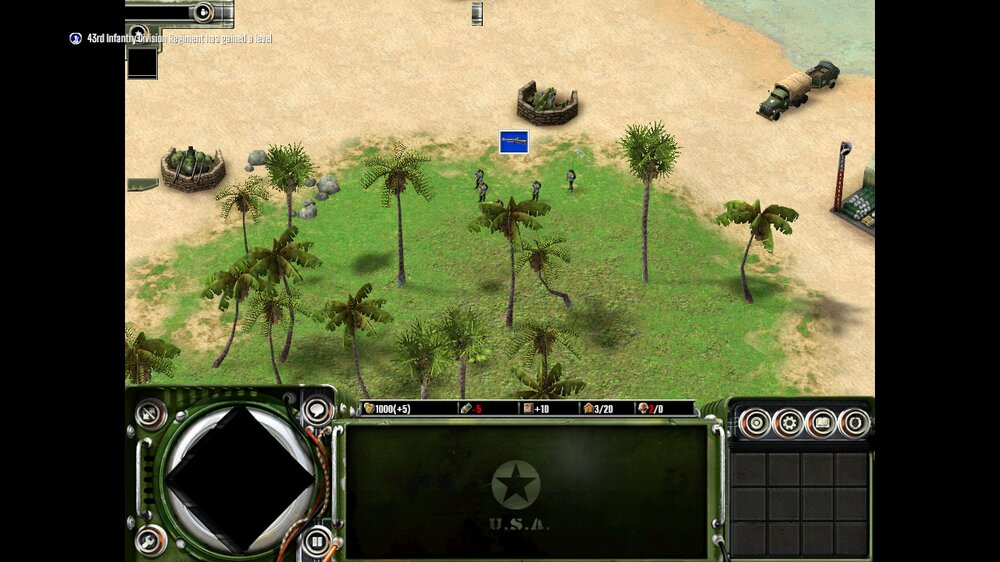
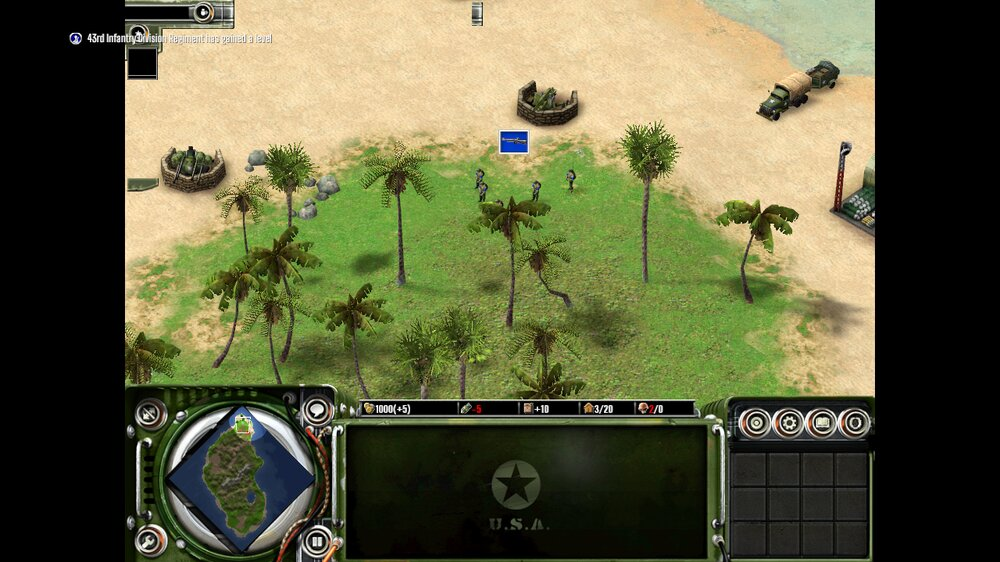
Show the minimap in the original interface

Changed region(s): [[0.155, 0.726, 0.31, 0.9982]]

diff --git a/crates/tgclient/src/widgets.rs b/crates/tgclient/src/widgets.rs
@@ -161,7 +161,8 @@ const UNDER_BUTTONS: [&str; 2] = [OBJECT_DISPLAY, "ActionButtons"];
 /// The panel showing what's selected: with nothing selected, only its own
 /// pictures, as its parts show the selection.
 const OBJECT_DISPLAY: &str = "ObjectDisplay";
-const OVER_BUTTONS: [&str; 1] = ["GameMiniMap"];
+/// The panel the minimap's drawn in, over the rest of the control panel.
+const MINIMAP: &str = "GameMiniMap";
 
 /// The match layer's own part that's on screen from the start, and the
 /// panels placed against the whole screen that are, with the flag each
@@ -244,6 +245,7 @@ pub fn spawn(
     mut images: ResMut<Assets<Image>>,
     mut faces: ResMut<Assets<bevy::text::Font>>,
     formats: Res<CompressedImageFormatSupport>,
+    minimap: Res<crate::minimap::Minimap>,
 ) {
     let game = &loaded.game;
     let nation = (local.0)
@@ -271,6 +273,8 @@ pub fn spawn(
         pressables: Vec::new(),
     };
     let mut grid = None;
+    // Where the minimap's drawn, and its panel's pictures over it.
+    let mut minimap_at = None;
     if let Some(top) = named(GAME).and_then(|g| g.find(ON_GAME)) {
         drawer.widget(top, &[]);
     }
@@ -295,9 +299,14 @@ pub fn spawn(
         for child in &panel.children {
             drawer.widget(child, &chain);
         }
-        for name in OVER_BUTTONS {
-            named(name).inspect(|w| drawer.widget(w, &chain));
-        }
+        minimap_at = named(MINIMAP).and_then(|widget| {
+            let within = drawer.own(widget, &chain)?;
+            let under = drawer.drawn.len();
+            for child in &widget.children {
+                drawer.widget(child, &within);
+            }
+            Some((within, drawer.drawn.split_off(under)))
+        });
     }
     for (name, flag) in ON_SCREEN {
         if flag.is_some_and(|f| !f(&drawer.flags)) {
@@ -355,13 +364,7 @@ pub fn spawn(
         ))
         .with_children(|screen| {
             for (chain, image) in drawn {
-                screen.spawn((
-                    placed(&chain),
-                    ImageNode::new(image).with_mode(NodeImageMode::Stretch),
-                    // Clicks on the panels aren't the map's.
-                    Blocks,
-                    RelativeCursorPosition::default(),
-                ));
+                screen.spawn(picture(&chain, image));
             }
             for bar in resource_bars {
                 bar.spawn(screen, game, &letters, short);
@@ -372,6 +375,12 @@ pub fn spawn(
             for button in pressables {
                 button.spawn(screen, &bindings);
             }
+            if let Some((within, over)) = minimap_at {
+                screen.spawn((placed(&within), minimap.view()));
+                for (chain, image) in over {
+                    screen.spawn(picture(&chain, image));
+                }
+            }
             docked = pane.map(|pane| pane.spawn(screen));
         })
         .id();
@@ -381,6 +390,17 @@ pub fn spawn(
     }
     commands.insert_resource(letters);
     commands.init_resource::<LayoutScale>();
+}
+
+/// One of the panels' pictures, given the steps from the screen to it.
+fn picture(chain: &[Step], image: Handle<Image>) -> impl Bundle {
+    (
+        placed(chain),
+        ImageNode::new(image).with_mode(NodeImageMode::Stretch),
+        // Clicks on the panels aren't the map's.
+        Blocks,
+        RelativeCursorPosition::default(),
+    )
 }
 
 /// Where on the layouts' screen the steps from it lead.

diff --git a/crates/tgclient/src/actions.rs b/crates/tgclient/src/actions.rs
@@ -18,7 +18,7 @@ use bevy::ecs::system::SystemParam;
 use bevy::image::CompressedImageFormatSupport;
 use bevy::picking::hover::Hovered;
 use bevy::prelude::*;
-use bevy::ui::RelativeCursorPosition;
+use bevy::ui::{ComputedStackIndex, RelativeCursorPosition};
 use bevy::ui_widgets::{Activate, Button};
 use tgdata::{GameData, Id};
 use tgmap::Organization;
@@ -730,6 +730,39 @@ impl Quantity {
 #[derive(Component)]
 pub struct Blocks;
 
+/// Part of the interface whose clicks are the map's, even drawn over a
+/// panel that [`Blocks`] them, such as the minimap.
+#[derive(Component)]
+pub struct OfMap;
+
+/// What's under the cursor of what takes clicks from the map and what
+/// gives them back.
+#[derive(SystemParam)]
+pub struct Panels<'w, 's> {
+    blocking: Query<'w, 's, Pointed, With<Blocks>>,
+    giving: Query<'w, 's, Pointed, With<OfMap>>,
+}
+
+type Pointed = (
+    &'static RelativeCursorPosition,
+    &'static InheritedVisibility,
+    &'static ComputedStackIndex,
+);
+
+impl Panels<'_, '_> {
+    /// Whether the cursor is on a panel, with nothing of the map's drawn
+    /// over it there.
+    pub fn under_cursor(&self) -> bool {
+        fn top<F: bevy::ecs::query::QueryFilter>(q: &Query<Pointed, F>) -> Option<u32> {
+            (q.iter())
+                .filter(|(p, shown, _)| shown.get() && p.cursor_over)
+                .map(|(.., stack)| stack.0)
+                .max()
+        }
+        top(&self.blocking) > top(&self.giving)
+    }
+}
+
 impl Looks {
     /// Every icon a button can show.
     pub fn icons(&self) -> impl Iterator<Item = &Handle<Image>> {
@@ -1132,16 +1165,8 @@ pub fn spawn(
 }
 
 /// Whether the cursor is off the grid, so clicks go to the map.
-pub fn pointer_away(
-    grids: Query<(&RelativeCursorPosition, &InheritedVisibility), With<Blocks>>,
-) -> bool {
-    !over_grid(&grids)
-}
-
-pub fn over_grid(
-    grids: &Query<(&RelativeCursorPosition, &InheritedVisibility), With<Blocks>>,
-) -> bool {
-    grids.iter().any(|(p, shown)| shown.get() && p.cursor_over)
+pub fn pointer_away(panels: Panels) -> bool {
+    !panels.under_cursor()
 }
 
 pub fn aiming(page: Res<Page>) -> bool {
@@ -2591,7 +2616,41 @@ pub fn aim(
 
 #[cfg(test)]
 mod tests {
+    use bevy::ecs::system::RunSystemOnce;
+
     use super::*;
+
+    /// Spawns a node the cursor is on, `stack` deep in the UI.
+    fn pointed(world: &mut World, stack: u32, marker: impl Bundle) {
+        let cursor = RelativeCursorPosition {
+            cursor_over: true,
+            normalized: Some(Vec2::ZERO),
+        };
+        world.spawn((
+            cursor,
+            InheritedVisibility::VISIBLE,
+            ComputedStackIndex(stack),
+            marker,
+        ));
+    }
+
+    fn on_panel(world: &mut World) -> bool {
+        world
+            .run_system_once(|panels: Panels| panels.under_cursor())
+            .unwrap()
+    }
+
+    #[test]
+    fn the_map_over_a_panel_takes_the_click() {
+        let mut world = World::new();
+        assert!(!on_panel(&mut world));
+        pointed(&mut world, 3, Blocks);
+        assert!(on_panel(&mut world));
+        pointed(&mut world, 5, OfMap);
+        assert!(!on_panel(&mut world));
+        pointed(&mut world, 7, Blocks);
+        assert!(on_panel(&mut world));
+    }
 
     const fn at(slot: usize) -> Option<Place> {
         Some(Place { slot, high: false })

diff --git a/crates/tgclient/src/lib.rs b/crates/tgclient/src/lib.rs
@@ -2342,15 +2342,7 @@ struct Pointer<'w, 's> {
             &'static RtsCamera,
         ),
     >,
-    grid: Query<
-        'w,
-        's,
-        (
-            &'static RelativeCursorPosition,
-            &'static InheritedVisibility,
-        ),
-        With<actions::Blocks>,
-    >,
+    panels: actions::Panels<'w, 's>,
     minimap: Res<'w, minimap::Minimap>,
     views: Query<'w, 's, &'static RelativeCursorPosition, With<minimap::MinimapView>>,
 }
@@ -2372,7 +2364,7 @@ impl Pointing {
 
 impl Pointer<'_, '_> {
     fn at(&self, ground: &Ground) -> Option<Pointing> {
-        if actions::over_grid(&self.grid) {
+        if self.panels.under_cursor() {
             return None;
         }
         match self.minimap.spot(&self.views) {
@@ -2445,7 +2437,7 @@ fn focus(
     banners: Query<banners::Pointed<banners::Banner>>,
     hq_banners: Query<banners::Pointed<banners::HqBanner>>,
     minimap: Query<&RelativeCursorPosition, With<minimap::MinimapView>>,
-    grid: Query<(&RelativeCursorPosition, &InheritedVisibility), With<actions::Blocks>>,
+    panels: actions::Panels,
     loaded: Res<Loaded>,
     sim: Res<Sim>,
     scenery: Res<banners::Scenery>,
@@ -2461,7 +2453,7 @@ fn focus(
         .and_then(Window::cursor_position)
         .zip(cameras.single().ok())
         .is_some_and(|(at, (c, ..))| c.logical_viewport_rect().is_some_and(|r| !r.contains(at)));
-    if !minimap::pointer_away(minimap) || actions::over_grid(&grid) || beside {
+    if !minimap::pointer_away(minimap) || panels.under_cursor() || beside {
         focus.set_if_neq(Focus::Nothing);
         return;
     }
@@ -2513,7 +2505,7 @@ fn select(
     windows: Query<&Window, With<PrimaryWindow>>,
     cameras: Query<(&Camera, &GlobalTransform, &RtsCamera)>,
     minimap: Query<&RelativeCursorPosition, With<minimap::MinimapView>>,
-    grid: Query<(&RelativeCursorPosition, &InheritedVisibility), With<actions::Blocks>>,
+    panels: actions::Panels,
     (loaded, drawn): (Res<Loaded>, Res<Drawn>),
     local: Res<Local>,
     focus: Res<Focus>,
@@ -2533,7 +2525,7 @@ fn select(
     let cursor = at.map(|at| view.map_or(at, |v| at.clamp(v.min, v.max)));
     if buttons.just_pressed(MouseButton::Left)
         && minimap::pointer_away(minimap)
-        && actions::pointer_away(grid)
+        && actions::pointer_away(panels)
         && at.zip(view).is_none_or(|(at, v)| v.contains(at))
     {
         *start = cursor;

diff --git a/crates/tgclient/src/minimap.rs b/crates/tgclient/src/minimap.rs
@@ -200,9 +200,8 @@ pub fn spawn(
         RenderAssetUsages::default(),
     );
     image.data = Some(base.clone());
-    let image = images.add(image);
-    commands.insert_resource(Minimap {
-        image: image.clone(),
+    let minimap = Minimap {
+        image: images.add(image),
         fogged: base.clone(),
         samples: samples(map.ground.size()),
         fog: Vec::new(),
@@ -210,7 +209,7 @@ pub fn spawn(
         size: map.ground.size(),
         icons,
         colours: palette,
-    });
+    };
     let backdrop = images.add(silhouette(BACKDROP_TEXELS, backdrop_shape));
     commands.spawn((
         crate::widgets::Ours,
@@ -238,9 +237,7 @@ pub fn spawn(
                 Pickable::IGNORE,
             ),
             (
-                MinimapView,
-                RelativeCursorPosition::default(),
-                ImageNode::new(image),
+                minimap.view(),
                 Node {
                     width: percent(100),
                     height: percent(100),
@@ -249,6 +246,7 @@ pub fn spawn(
             ),
         ],
     ));
+    commands.insert_resource(minimap);
 }
 
 /// The disc's backdrop, drawn as one with the buttons on its rim so where
@@ -733,6 +731,16 @@ fn spot(size: f32, over: Option<Vec2>) -> Spot {
 }
 
 impl Minimap {
+    /// The map drawn as it's shown, for a node to show it in.
+    pub fn view(&self) -> impl Bundle {
+        (
+            MinimapView,
+            crate::actions::OfMap,
+            RelativeCursorPosition::default(),
+            ImageNode::new(self.image.clone()),
+        )
+    }
+
     pub fn spot(&self, views: &Query<&RelativeCursorPosition, With<MinimapView>>) -> Spot {
         spot(self.size, over(views))
     }
